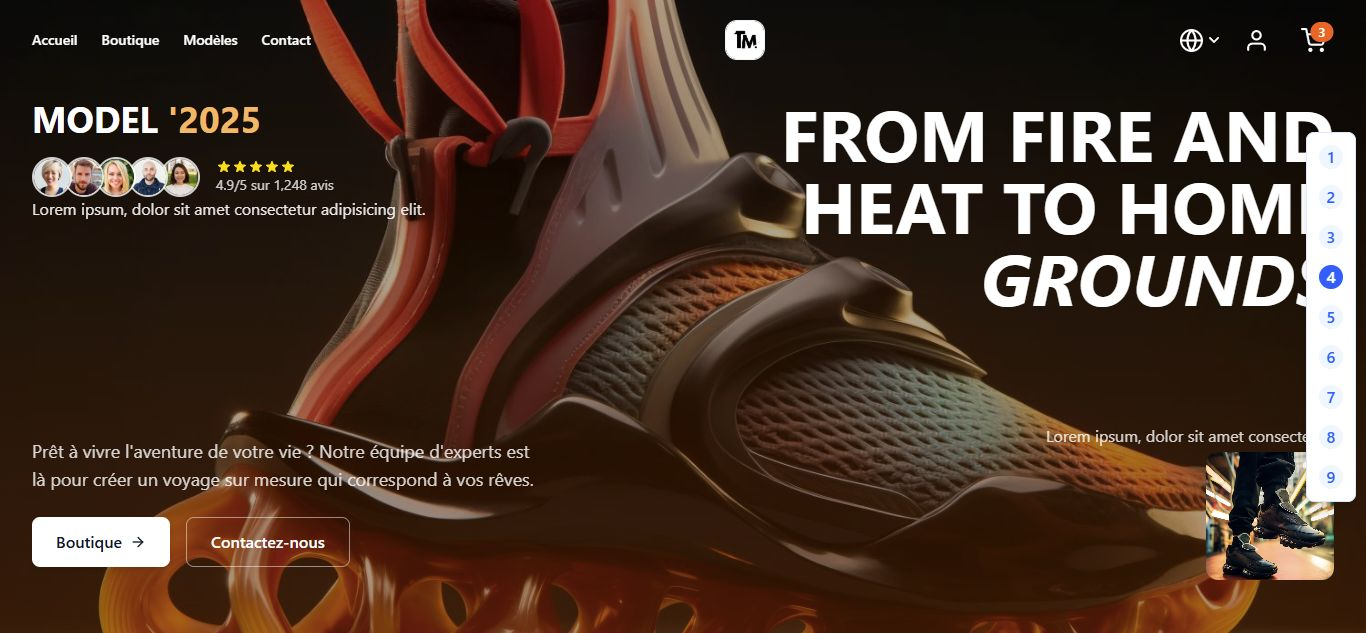
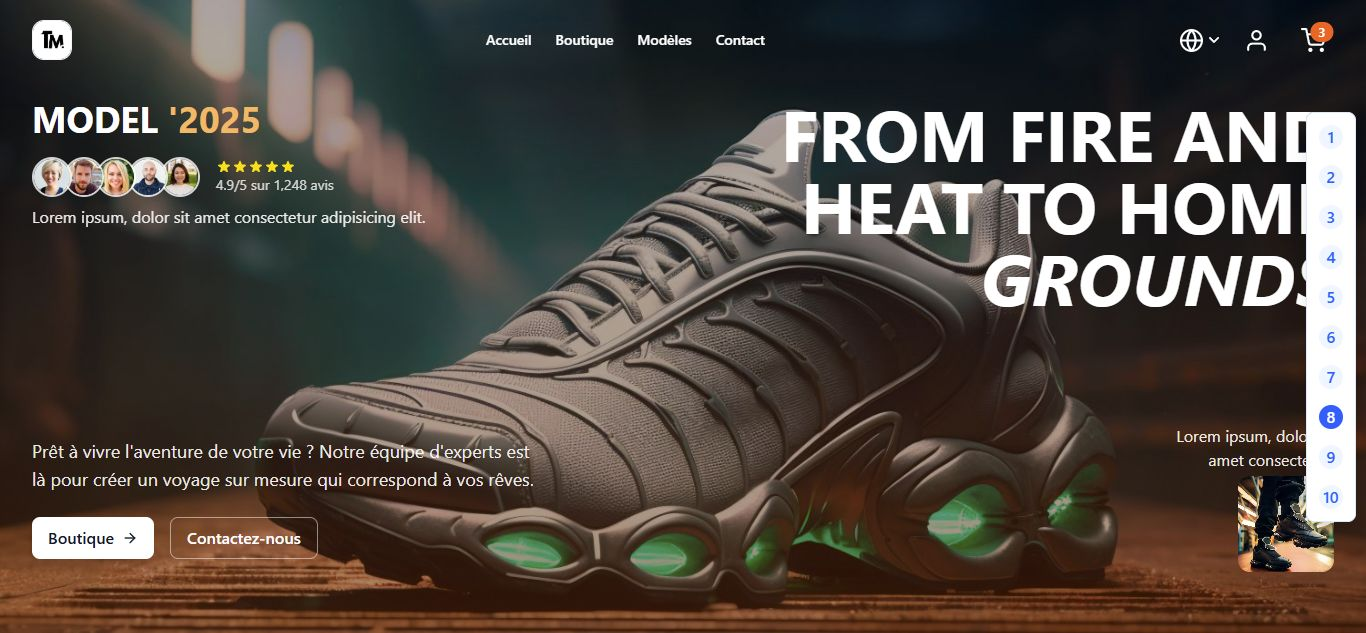
stage

diff --git a/src/index.html b/src/index.html
@@ -360,6 +360,9 @@
                     <img src="assets/img/therapy.jpg" class="animate__animated animate__bounce animate__delay-500ms img" alt="image gallerie tatchou marc"/>
                   </div>
                   <div class="swiper-slide">
+                    <img src="assets/img/genova.jpg" class="animate__animated animate__bounce animate__delay-500ms img" alt="image gallerie tatchou marc"/>
+                  </div>
+                  <div class="swiper-slide">
                     <img src="assets/img/ibte.jpg" class="animate__animated animate__bounce animate__delay-500ms img" alt="image gallerie tatchou marc"/>
                   </div>
                   <div class="swiper-slide">
